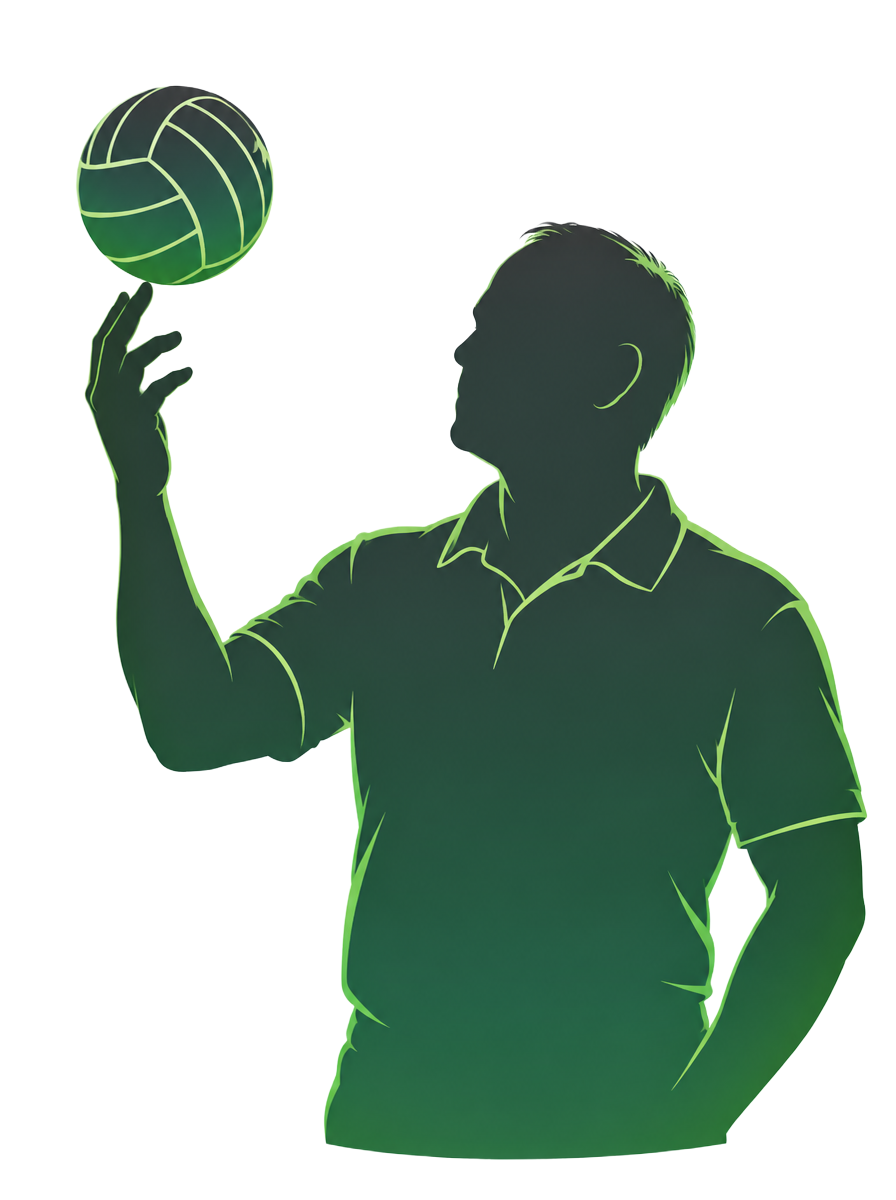
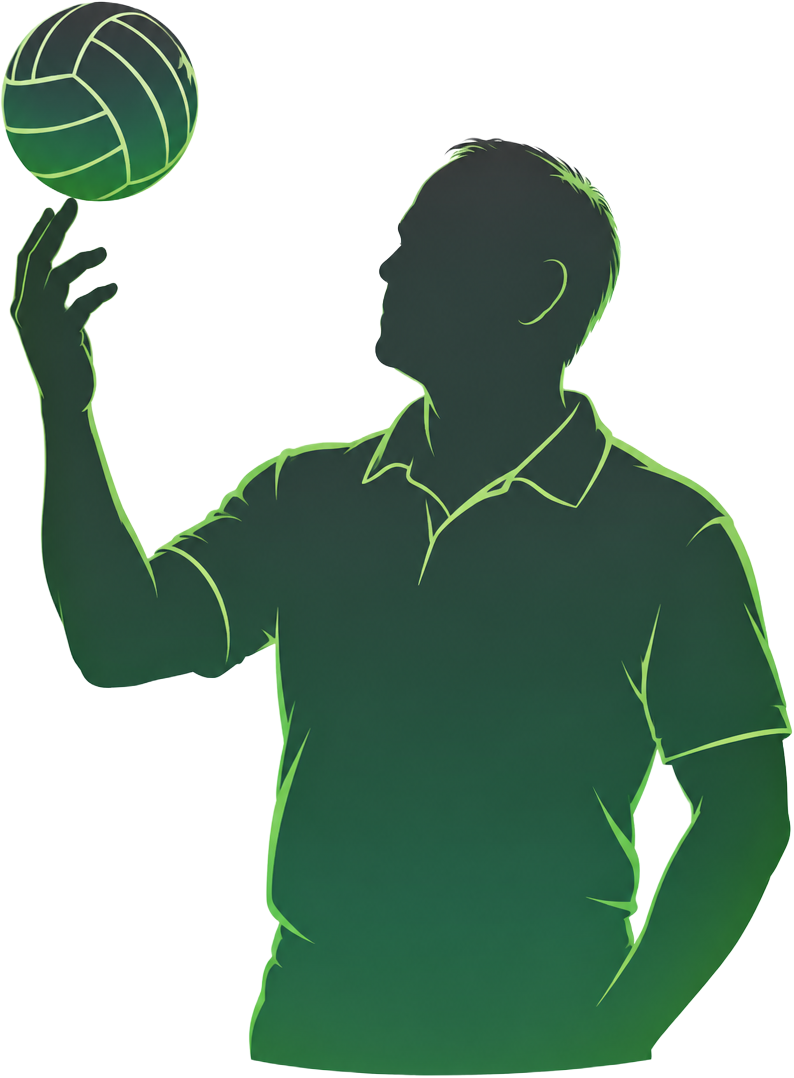
Work in progress

Changed region(s): [[0.0, 0.0, 0.9975, 1.0]]

diff --git a/src/routes/index.tsx b/src/routes/index.tsx
@@ -13,7 +13,7 @@ import { competitionQuery } from "@/lib/queries";
 import { useRole } from "@/hooks/use-role";
 import { MODULES, ROLE_LABELS } from "@/lib/modules";
 import court from "@/assets/volleyball-court.jpg";
-import playerPortrait from "@/assets/player-portrait-spike.png";
+import playerPortrait from "@/assets/player-portrait-celebrate.png";
 import coachPortrait from "@/assets/coach-portrait-toss.png";
 import familyPortrait from "@/assets/family-portrait-cheer.png";
 import { TBD, teamLabel } from '@/lib/format';
@@ -30,7 +30,7 @@ function Home(){
  const announcements=audienceAnnouncements(data.announcements.filter(a=>(!a.team_id||a.team_id===teamId)&&(role!=='coach'||a.author_id===user?.id)));const cfg=MODULES[role];
  return <div className={`home-surface${role==='coach'?' coach-invert':''}`}><AppShell title={ROLE_LABELS[role]} contentClassName="home-content">
 
- {role==='general_user'?<div className="home-banner"><img src={court} alt="Illustrative indoor volleyball match" width={1600} height={768}/><div className="home-banner-content"><p className="mb-3 text-xs font-semibold uppercase text-primary">Ontario Volleyball Association</p><HomeLine className="home-headline"><h2 className="font-semibold uppercase"><span data-fit-run className="home-headline-line">Your game.</span><span data-fit-run className="home-headline-line">Your community.</span></h2></HomeLine><p className="mt-3 text-base text-muted-foreground">Every match. Every moment.</p><Button asChild className="mt-5"><Link to="/schedule">Upcoming matches<ArrowUpRight aria-hidden/></Link></Button></div></div>:<Section title="Information"><div className="home-info flex flex-wrap items-center justify-between gap-4 rounded-lg bg-secondary p-6"><div className="flex items-center gap-4"><span className="flex size-16 shrink-0 items-center justify-center rounded-full bg-primary text-2xl font-semibold text-primary-foreground">{player?.jersey_number?'#'+player.jersey_number:<ShieldCheck aria-hidden/>}</span><div><p className="text-sm font-semibold text-primary">{role==='family_friends'?'Linked player':role==='player'?'My player profile':'Registered team'}</p><h3 className="text-3xl font-semibold">{role==='coach'?team?.name??'Team to be determined':player?.display_name??'Player to be determined'}</h3><p>{role==='coach'?hh?.profile?.display_name??'Coach name to be determined':team?.name??'Team to be determined'}</p>{player&&<p className="text-sm font-semibold capitalize">{player.status==='pending'?'Pending verification':player.status}</p>}</div></div>{role==='family_friends'&&<span className="text-sm text-muted-foreground">Note your kid</span>}{(role==='coach'||player)&&<img src={role==='coach'?coachPortrait:role==='family_friends'?familyPortrait:playerPortrait} alt={role==='coach'?'Illustrative coach portrait':role==='family_friends'?'Illustrative family and friends portrait':'Illustrative player portrait'} width={896} height={1200} loading="lazy" className="player-portrait"/>}</div>{players.length>1&&<label className="block font-semibold">Player<select className="mt-1 min-h-12 w-full rounded-md border bg-card px-3" value={player?.id} onChange={e=>setObject(e.target.value)}>{players.map(p=><option key={p.id} value={p.id}>{p.display_name}</option>)}</select></label>}{role==='coach'&&(hh?.managedTeams.length??0)>1&&<label className="block font-semibold">Team<select className="min-h-12 w-full rounded-md border bg-card px-3" value={teamId??''} onChange={e=>setObject(e.target.value)}>{hh?.managedTeams.map(id=><option key={id} value={id}>{data.teams.find(t=>t.id===id)?.name}</option>)}</select></label>}</Section>}
+ {role==='general_user'?<div className="home-banner"><img src={court} alt="Illustrative indoor volleyball match" width={1600} height={768}/><div className="home-banner-content"><p className="mb-3 text-xs font-semibold uppercase text-primary">Ontario Volleyball Association</p><HomeLine className="home-headline"><h2 className="font-semibold uppercase"><span data-fit-run className="home-headline-line">Your game.</span><span data-fit-run className="home-headline-line">Your community.</span></h2></HomeLine><p className="mt-3 text-base text-muted-foreground">Every match. Every moment.</p><Button asChild className="mt-5"><Link to="/schedule">Upcoming matches<ArrowUpRight aria-hidden/></Link></Button></div></div>:<Section title="Information"><div className="home-info flex flex-wrap items-center justify-between gap-4 rounded-lg bg-secondary p-6"><div className="flex items-center gap-4"><span className="flex size-16 shrink-0 items-center justify-center rounded-full bg-primary text-2xl font-semibold text-primary-foreground">{player?.jersey_number?'#'+player.jersey_number:<ShieldCheck aria-hidden/>}</span><div><p className="text-sm font-semibold text-primary">{role==='family_friends'?'Linked player':role==='player'?'My player profile':'Registered team'}</p><h3 className="text-3xl font-semibold">{role==='coach'?team?.name??'Team to be determined':player?.display_name??'Player to be determined'}</h3><p>{role==='coach'?hh?.profile?.display_name??'Coach name to be determined':team?.name??'Team to be determined'}</p>{player&&<p className="text-sm font-semibold capitalize">{player.status==='pending'?'Pending verification':player.status}</p>}</div></div>{(role==='coach'||player)&&<img src={role==='coach'?coachPortrait:role==='family_friends'?familyPortrait:playerPortrait} alt={role==='coach'?'Illustrative coach portrait':role==='family_friends'?'Illustrative family and friends portrait':'Illustrative player portrait'} width={896} height={1200} loading="lazy" className="player-portrait"/>}</div>{players.length>1&&<label className="block font-semibold">Player<select className="mt-1 min-h-12 w-full rounded-md border bg-card px-3" value={player?.id} onChange={e=>setObject(e.target.value)}>{players.map(p=><option key={p.id} value={p.id}>{p.display_name}</option>)}</select></label>}{role==='coach'&&(hh?.managedTeams.length??0)>1&&<label className="block font-semibold">Team<select className="min-h-12 w-full rounded-md border bg-card px-3" value={teamId??''} onChange={e=>setObject(e.target.value)}>{hh?.managedTeams.map(id=><option key={id} value={id}>{data.teams.find(t=>t.id===id)?.name}</option>)}</select></label>}</Section>}
  {cfg.announcement.visible&&<Section title="Announcement" link={<MoreLink to="/announcements">{role==='coach'?'Manage':'View all'}</MoreLink>}>{announcements.length?<AnnouncementCarousel key={teamId??'community'} items={announcements}/>:role==='coach'?<Button asChild variant="outline"><Link to="/announcements">Add a new announcement</Link></Button>:<p className="border-y py-5 text-muted-foreground">There is no current announcement.</p>}</Section>}
  <Section title={role==='general_user'?'Upcoming matches':'Next Match'} link={role==='general_user'?<MoreLink to="/schedule">Full schedule</MoreLink>:undefined}><div className="home-matches">{upcoming.slice(0,role==='general_user'?3:1).map(m=><MatchCard key={m.id} m={m} data={data} focusTeam={teamId??undefined} compact fullSchedule={role!=='general_user'}/>)}{!upcoming.length&&<Card>No upcoming match is published.</Card>}</div></Section>
  <Section title="Venue">{venue?<Link to="/venue/$id" params={{id:venue.id}} className="home-venue">{venueMedia(venue.name)?<img src={venueMedia(venue.name)?.url} alt={venueMedia(venue.name)?.alt} width={1044} height={456} loading="lazy" className="home-venue-photo"/>:<div className="flex aspect-video items-center justify-center text-primary"><MapPin aria-hidden className="size-12"/></div>}<span className="min-w-0"><span className="block font-display text-2xl font-semibold uppercase">{venue.name}</span><span className="mt-2 block text-base text-muted-foreground">{venue.address}</span><span className="mt-3 inline-flex items-center gap-1 text-sm font-semibold text-primary">Venue &amp; parking<ArrowUpRight aria-hidden className="size-4"/></span></span><ArrowUpRight aria-hidden className="size-6 text-primary"/></Link>:<p className="home-unknown py-3">Venue to be determined</p>}</Section>

diff --git a/src/styles.css b/src/styles.css
@@ -334,22 +334,13 @@ input:not([type="checkbox"]):not([type="radio"]):not([type="file"]), select, tex
 @media (max-width: 639px) { .home-banner-content { padding: 22px 18px; } .home-content .home-match { padding: 14px 16px; } }
 @media (prefers-reduced-motion: reduce) { .home-content :is(.rounded-lg.bg-card, .rounded-lg.bg-secondary, .home-banner, .home-venue, .home-result, .home-lottery) { transition: none; } .home-content :is(.rounded-lg.bg-card, .rounded-lg.bg-secondary, .home-banner, .home-venue, .home-result, .home-lottery):active { transform: none; } }
 
-/* Illustrative player portrait inside the homepage Information panel */
-.player-portrait {
-  height: 14rem;
-  width: auto;
-  object-fit: contain;
-  align-self: flex-end;
-  margin: -0.5rem 0 -1.5rem auto;
-  pointer-events: none;
-  user-select: none;
-}
-@media (min-width: 640px) {
-  .player-portrait { height: 18rem; margin-right: 2rem; }
-}
-@media (min-width: 1024px) {
-  .player-portrait { height: 24rem; margin-right: 6rem; }
-}
+/* Portraits are sized against their panel, not the viewport. */
+.home-info { position: relative; overflow: hidden; min-height: 18rem; }
+.home-info:has(.player-portrait) > div { width: 60%; min-width: 0; }
+.home-info > div > div { min-width: 0; overflow-wrap: anywhere; }
+.home-info .player-portrait { position: absolute; height: 66.6667%; width: auto; max-width: 40%; object-fit: contain; object-position: bottom right; bottom: 0; right: 3%; margin: 0; pointer-events: none; user-select: none; }
+.announcement-carousel .announcement-panel { height: 12rem; overflow: hidden; }
+.home-content .announcement-carousel .announcement-panel { background: var(--ink-base); color: var(--paper-base); --muted-foreground: var(--paper-base); }
 
 /* Rhyanne: no bold text anywhere — medium weight keeps hierarchy without heavy bold */
 body, body * { font-weight: 500 !important; }
@@ -527,12 +518,12 @@ body, body * { font-weight: 500 !important; }
   .announcement-carousel .text-sm { font-size: .875rem; }
   .home-info { position: relative; overflow: hidden; min-height: 11rem; padding: 1rem; gap: .5rem; }
   .home-info > div { min-width: 0; max-width: 100%; gap: .75rem; }
-  .home-info:has(.player-portrait) > div { width: 66%; }
+  .home-info:has(.player-portrait) > div { width: 60%; }
   .home-info > div > span { width: 2.5rem; height: 2.5rem; font-size: 1rem; }
   .home-info > div > div { min-width: 0; overflow-wrap: anywhere; }
   .home-info h3 { font-size: 1.125rem; }
   .home-info p { font-size: .875rem; }
-  .home-info .player-portrait { position: absolute; width: 34%; height: auto; margin: 0; right: .5rem; bottom: -2rem; max-height: 12rem; object-fit: contain; }
+  .home-info .player-portrait { width: auto; height: 66.6667%; max-width: 40%; right: .5rem; bottom: 0; }
   .result-row { padding: .875rem .75rem; }
   .result-row-team { font-size: 1rem; }
   .result-row-score { font-size: 1.75rem; }
@@ -578,4 +569,26 @@ body, body * { font-weight: 500 !important; }
   .account-page .account-role-picker > a[href="/staff"] { min-height: 4rem; border-radius: 1rem; font-size: 1rem; padding-inline: 1rem; gap: .75rem; }
   .account-page .account-role-picker > a[href="/"] { font-size: .875rem; }
   .account-page button.min-h-16 { min-height: 3rem; font-size: 1rem; }
+}
+
+/* Dedicated launch tokens; role and lottery themes cannot recolour this layer. */
+:root { --startup-green: var(--logo-green); --startup-light: var(--paper-base); --startup-seam: color-mix(in oklab, var(--logo-green) 82%, var(--ink-base)); }
+.startup-overlay { position: fixed; inset: 0; z-index: 1000; overflow: hidden; background: var(--startup-green); animation: startup-finish 2.65s both; pointer-events: none; }
+.startup-logo { position: absolute; z-index: 1; width: min(30vw, 170px); height: auto; top: 50%; left: 50%; transform: translate(-50%, -50%); filter: brightness(0) invert(1); animation: startup-logo 2.65s both; }
+.startup-ball-flight { position: absolute; z-index: 3; left: 82%; top: max(10%, env(safe-area-inset-top)); width: clamp(56px, 14vw, 104px); aspect-ratio: 1; animation: startup-flight 2.65s both; }
+.startup-ball { width: 100%; height: 100%; animation: startup-spin 2.65s both; }
+.startup-ball-light { fill: var(--startup-light); }
+.startup-ball-green { fill: var(--startup-green); }
+.startup-ball-seams { fill: none; stroke: var(--startup-seam); stroke-width: 1.4; }
+.startup-wave { position: absolute; z-index: 2; width: 180vmax; height: 180vmax; left: 100%; top: 0; border-radius: 46% 54% 42% 58%; background: var(--startup-light); box-shadow: 0 0 40px 28px color-mix(in oklab, var(--startup-light) 40%, transparent); transform: translate(0, -100%); animation: startup-wave 2.65s cubic-bezier(.55, .05, .25, 1) both; }
+@keyframes startup-flight { 0%, 22% { transform: translate(0, 0); } 45% { transform: translate(-20vw, 20vh); } 65% { transform: translate(-53vw, 52vh); } 84%, 100% { transform: translate(-115vw, 108vh); } }
+@keyframes startup-spin { 0%, 22% { transform: rotate(-15deg); } 84%, 100% { transform: rotate(245deg); } }
+@keyframes startup-wave { 0%, 22% { transform: translate(0, -100%) rotate(-12deg); } 84%, 100% { transform: translate(-90%, -35%) rotate(12deg); } }
+@keyframes startup-logo { 0% { opacity: 0; } 12%, 28% { opacity: 1; } 48%, 100% { opacity: 0; } }
+@keyframes startup-finish { 0%, 85% { opacity: 1; } 100% { opacity: 0; } }
+@media (prefers-reduced-motion: reduce) {
+  .startup-overlay { animation: startup-finish .45s both; }
+  .startup-logo { animation: none; }
+  .startup-ball-flight, .startup-ball, .startup-wave { animation: none; }
+  .startup-wave { display: none; }
 }

diff --git a/src/components/AnnouncementCarousel.tsx b/src/components/AnnouncementCarousel.tsx
@@ -19,7 +19,7 @@ export function AnnouncementCarousel({ items }: { items: CompetitionData['announ
    onPointerCancel={()=>{drag.current=null;setDragging(false);}}
    onClickCapture={e=>{if(suppressClick.current){e.preventDefault();e.stopPropagation();suppressClick.current=false;}}}
    onScroll={e=>setActive(Math.round(e.currentTarget.scrollLeft/e.currentTarget.clientWidth))} className={`flex select-none overflow-x-auto overscroll-x-contain [scrollbar-width:none] [&::-webkit-scrollbar]:hidden ${dragging?'cursor-grabbing snap-none':'cursor-grab snap-x snap-mandatory'}`}>
-   {items.map((a,i)=><div key={a.id} className="w-full shrink-0 snap-start" role="group" aria-label={`${i+1} of ${items.length}`}><Link to="/announcements" draggable={false} tabIndex={i===active?0:-1} className="flex min-h-36 cursor-inherit items-start gap-4 rounded-lg border bg-card p-5 pb-10"><span className="flex size-11 shrink-0 items-center justify-center rounded-full bg-secondary"><Megaphone aria-hidden className="size-5 text-primary"/></span><div className="min-w-0 flex-1">{a.pinned_at&&<span className="mb-1 inline-flex items-center gap-1 text-xs font-semibold text-primary"><Pin aria-hidden className="size-3"/>Pinned</span>}<p className="text-lg font-semibold">{a.title}</p><p className="mt-1 line-clamp-2 text-sm text-muted-foreground">{a.body}</p></div><ArrowUpRight aria-hidden className="shrink-0"/></Link></div>)}
+   {items.map((a,i)=><div key={a.id} className="w-full shrink-0 snap-start" role="group" aria-label={`${i+1} of ${items.length}`}><Link to="/announcements" draggable={false} tabIndex={i===active?0:-1} className="announcement-panel flex cursor-inherit items-start gap-4 rounded-lg border bg-card p-5 pb-10"><span className="flex size-11 shrink-0 items-center justify-center rounded-full bg-secondary"><Megaphone aria-hidden className="size-5 text-primary"/></span><div className="min-w-0 flex-1">{a.pinned_at&&<span className="mb-1 inline-flex items-center gap-1 text-xs font-semibold text-primary"><Pin aria-hidden className="size-3"/>Pinned</span>}<p className="line-clamp-2 text-lg font-semibold">{a.title}</p><p className="mt-1 line-clamp-2 text-sm text-muted-foreground">{a.body}</p></div><ArrowUpRight aria-hidden className="shrink-0"/></Link></div>)}
   </div>
   {items.length>1&&<div aria-hidden className="pointer-events-none absolute inset-x-0 bottom-3 flex justify-center gap-2">{items.map((a,i)=><span key={a.id} className={`size-2 rounded-full ${i===active?'bg-primary':'bg-muted-foreground'}`}/>)}</div>}
  </div>;

diff --git a/src/components/StartupOverlay.tsx b/src/components/StartupOverlay.tsx
@@ -1,0 +1,27 @@
+import { useEffect, useState } from 'react';
+import logo from '@/assets/ova-logo.png.asset.json';
+
+/** Root-mounted and never keyed to navigation. Initial markup is identical on server and client. */
+export function StartupOverlay() {
+  const [visible, setVisible] = useState(true);
+  useEffect(() => {
+    const reduced = window.matchMedia('(prefers-reduced-motion: reduce)').matches;
+    const timer = window.setTimeout(() => setVisible(false), reduced ? 450 : 2700);
+    return () => window.clearTimeout(timer);
+  }, []);
+  if (!visible) return null;
+  return <div className="startup-overlay" aria-hidden="true" data-startup-overlay>
+    <img className="startup-logo" src={logo.url} width={272} height={381} alt="" fetchPriority="high" />
+    <div className="startup-wave" />
+    <div className="startup-ball-flight">
+      <svg className="startup-ball" viewBox="0 0 100 100" fill="none">
+        <defs><clipPath id="startup-ball-clip"><circle cx="50" cy="50" r="48" /></clipPath></defs>
+        <circle cx="50" cy="50" r="48" className="startup-ball-light" />
+        <g clipPath="url(#startup-ball-clip)" className="startup-ball-green">
+          <path d="M50 50C28 48 9 29 8 12L28 0C25 22 36 40 50 50Z M50 50C59 29 81 14 98 15L100 40C78 33 61 40 50 50Z M50 50C65 67 69 89 60 103L36 100C49 84 52 66 50 50Z" />
+          <g className="startup-ball-seams"><path d="M50 50C21 47 3 26 4 4M50 50C55 22 80 7 102 13M50 50C69 71 70 94 55 106M28 0C24 20 35 41 50 50M100 40C79 33 62 39 50 50M36 100C50 83 53 64 50 50" /></g>
+        </g>
+      </svg>
+    </div>
+  </div>;
+}

diff --git a/src/test/startup-overlay.test.tsx b/src/test/startup-overlay.test.tsx
@@ -1,0 +1,24 @@
+import { act, render, cleanup } from '@testing-library/react';
+import { afterEach, beforeEach, expect, it, vi } from 'vitest';
+import { StartupOverlay } from '@/components/StartupOverlay';
+beforeEach(() => vi.useFakeTimers());
+afterEach(() => { cleanup(); vi.useRealTimers(); vi.unstubAllGlobals(); });
+function motion(reduced: boolean) { vi.stubGlobal('matchMedia', vi.fn(() => ({ matches: reduced }))); }
+it('ends launch in 2.7 seconds and does not replay on rerender', () => {
+  motion(false);
+  const view = render(<StartupOverlay />);
+  act(() => vi.advanceTimersByTime(2699));
+  expect(view.container.querySelector('[data-startup-overlay]')).not.toBeNull();
+  act(() => vi.advanceTimersByTime(1));
+  expect(view.container.querySelector('[data-startup-overlay]')).toBeNull();
+  view.rerender(<StartupOverlay />);
+  expect(view.container.querySelector('[data-startup-overlay]')).toBeNull();
+});
+it('uses a 450ms reduced-motion launch', () => {
+  motion(true);
+  const view = render(<StartupOverlay />);
+  act(() => vi.advanceTimersByTime(449));
+  expect(view.container.querySelector('[data-startup-overlay]')).not.toBeNull();
+  act(() => vi.advanceTimersByTime(1));
+  expect(view.container.querySelector('[data-startup-overlay]')).toBeNull();
+});

diff --git a/src/routes/__root.tsx b/src/routes/__root.tsx
@@ -12,6 +12,7 @@ import { useEffect, type ReactNode } from "react";
 
 import { Toaster } from "@/components/ui/sonner";
 import { RoleProvider } from "@/hooks/use-role";
+import { StartupOverlay } from "@/components/StartupOverlay";
 import appCss from "../styles.css?url";
 import { reportLovableError } from "../lib/lovable-error-reporting";
 
@@ -121,6 +122,7 @@ function RootComponent() {
     <QueryClientProvider client={queryClient}>
       {/* Required: nested routes render here. Removing <Outlet /> breaks all child routes. */}
       <RoleProvider><Outlet /></RoleProvider>
+      <StartupOverlay />
       <Toaster position="top-center" />
     </QueryClientProvider>
   );

diff --git a/AGENTS.md b/AGENTS.md
@@ -12,8 +12,7 @@
 ## Architecture rules
 - Mobile sizing uses shared AppShell classes and a mobile-only semantic spacing/type layer with scoped module overrides. Why: compact proportions must preserve desktop sizing, role palettes and business behavior.
 - Coach homepage visual overrides are isolated under a role-gated outer wrapper and dedicated coach tokens. Why: shared homepage modules and navigation must retain their existing presentation for every other role and route.
-- The 50/50 stage uses independent lottery semantic tokens and scoped effects rather than global accent/card colours. Why: app-wide theme changes must not flatten or recolour its dedicated lottery presentation.
-- Lottery typography overrides are scoped to its page wrapper, with independent numeric and editorial font tokens. Why: lottery hierarchy must not override other pages' typography or the global weight preference.
+- Lottery effects, colours and typography use page-scoped tokens. Why: global theme changes must preserve its dedicated presentation.
 - Uploaded web fonts are CDN assets loaded through a local font-face stylesheet imported by the global theme; heading and body font tokens stay separate. Why: brand typography can change independently without making dense content hard to read or embedding binary files in source.
 - Homepage match cards use the optional compact MatchCard variant and HomeLine container fitting; other match views keep their existing layout. Why: complete single-line homepage information must fit without changing schedules or hiding unknown values.
 - Venue detail and Homepage share exact-name source-checked CDN media via venue-media and official links; unknown venues have fallbacks, OpenStreetMap remains interactive and parking uses recorded information only. Why: avoid unrelated buildings or fabricated location details.
@@ -32,3 +31,6 @@
 - Coach applications collect identity details through submit_coach_application; email is taken from the authenticated claim and team name from the team record, and staff approval rejects incomplete applications. Why: applicants cannot spoof the account contact or bypass required review details.
 - Account resolves its code-generation view from the authenticated household verification/team associations; existing RPCs authorize generation. Why: presentation preferences must not expose unauthorized code types.
 - Identity approvals are owner-scoped RPCs: managing coaches review players, verified players review family links; only approved links to verified players can read private team content. Existing family links are preserved as approved during the additive transition. Why: redeeming an invitation must not grant private access by itself.
+
+- Startup uses an SSR-safe root overlay with a one-shot timer and CSS motion while routes load underneath. Why: navigation must not replay it or change identity logic.
+- Information portraits use panel-relative sizing; announcement previews use fixed-height frames linking to full content. Why: text length must not change visual proportions or access.

diff --git a/roadmap.md b/roadmap.md
@@ -1,4 +1,7 @@
 # OVA modular build
+- [ ] Update player silhouette from Amanda's celebration reference; make all role portraits two-thirds of Information height and remove Family note.
+- [ ] Equalize homepage announcement panels without changing announcement access or content.
+- [ ] Add and verify one-shot brand-green logo/volleyball wave startup, concurrent page loading, safe areas and reduced-motion fallback.
 - [x] Apply global mobile sizing refinement: 16px mobile base, 28px page titles, 64px Account role rows with 12px gaps, 212px homepage hero and 68px navigation; preserve brand fonts, palettes, data and behavior. Ten public pages checked at 375/390/430/1280, venue/product details also checked on phones, no page overflow/runtime errors; 47 tests pass (one integration test remains skipped). Role entry and 150/$100 and 5/$10 lottery choices pass; mobile tickets scroll horizontally to retain readable labels. Signed-in Matches read checked. Information portrait checked only with a visual mock because current account has no player/coach identity; real role-specific layouts and physical iPhone safe areas remain unverified.
 - [x] Apply uploaded sticker-collage style only to Coach customized homepage; preserve content and other roles. Visual-only 1280/884/390 checks show readable green layers and no overflow; 22 existing tests pass and preview build is OK.
 - [ ] Verify the Coach redesign with an authorized signed-in coach: the injected account does not resolve to Coach, so real coach content/navigation remains unverified; requires an authorized coach session. Guest isolation checked with no runtime errors.
